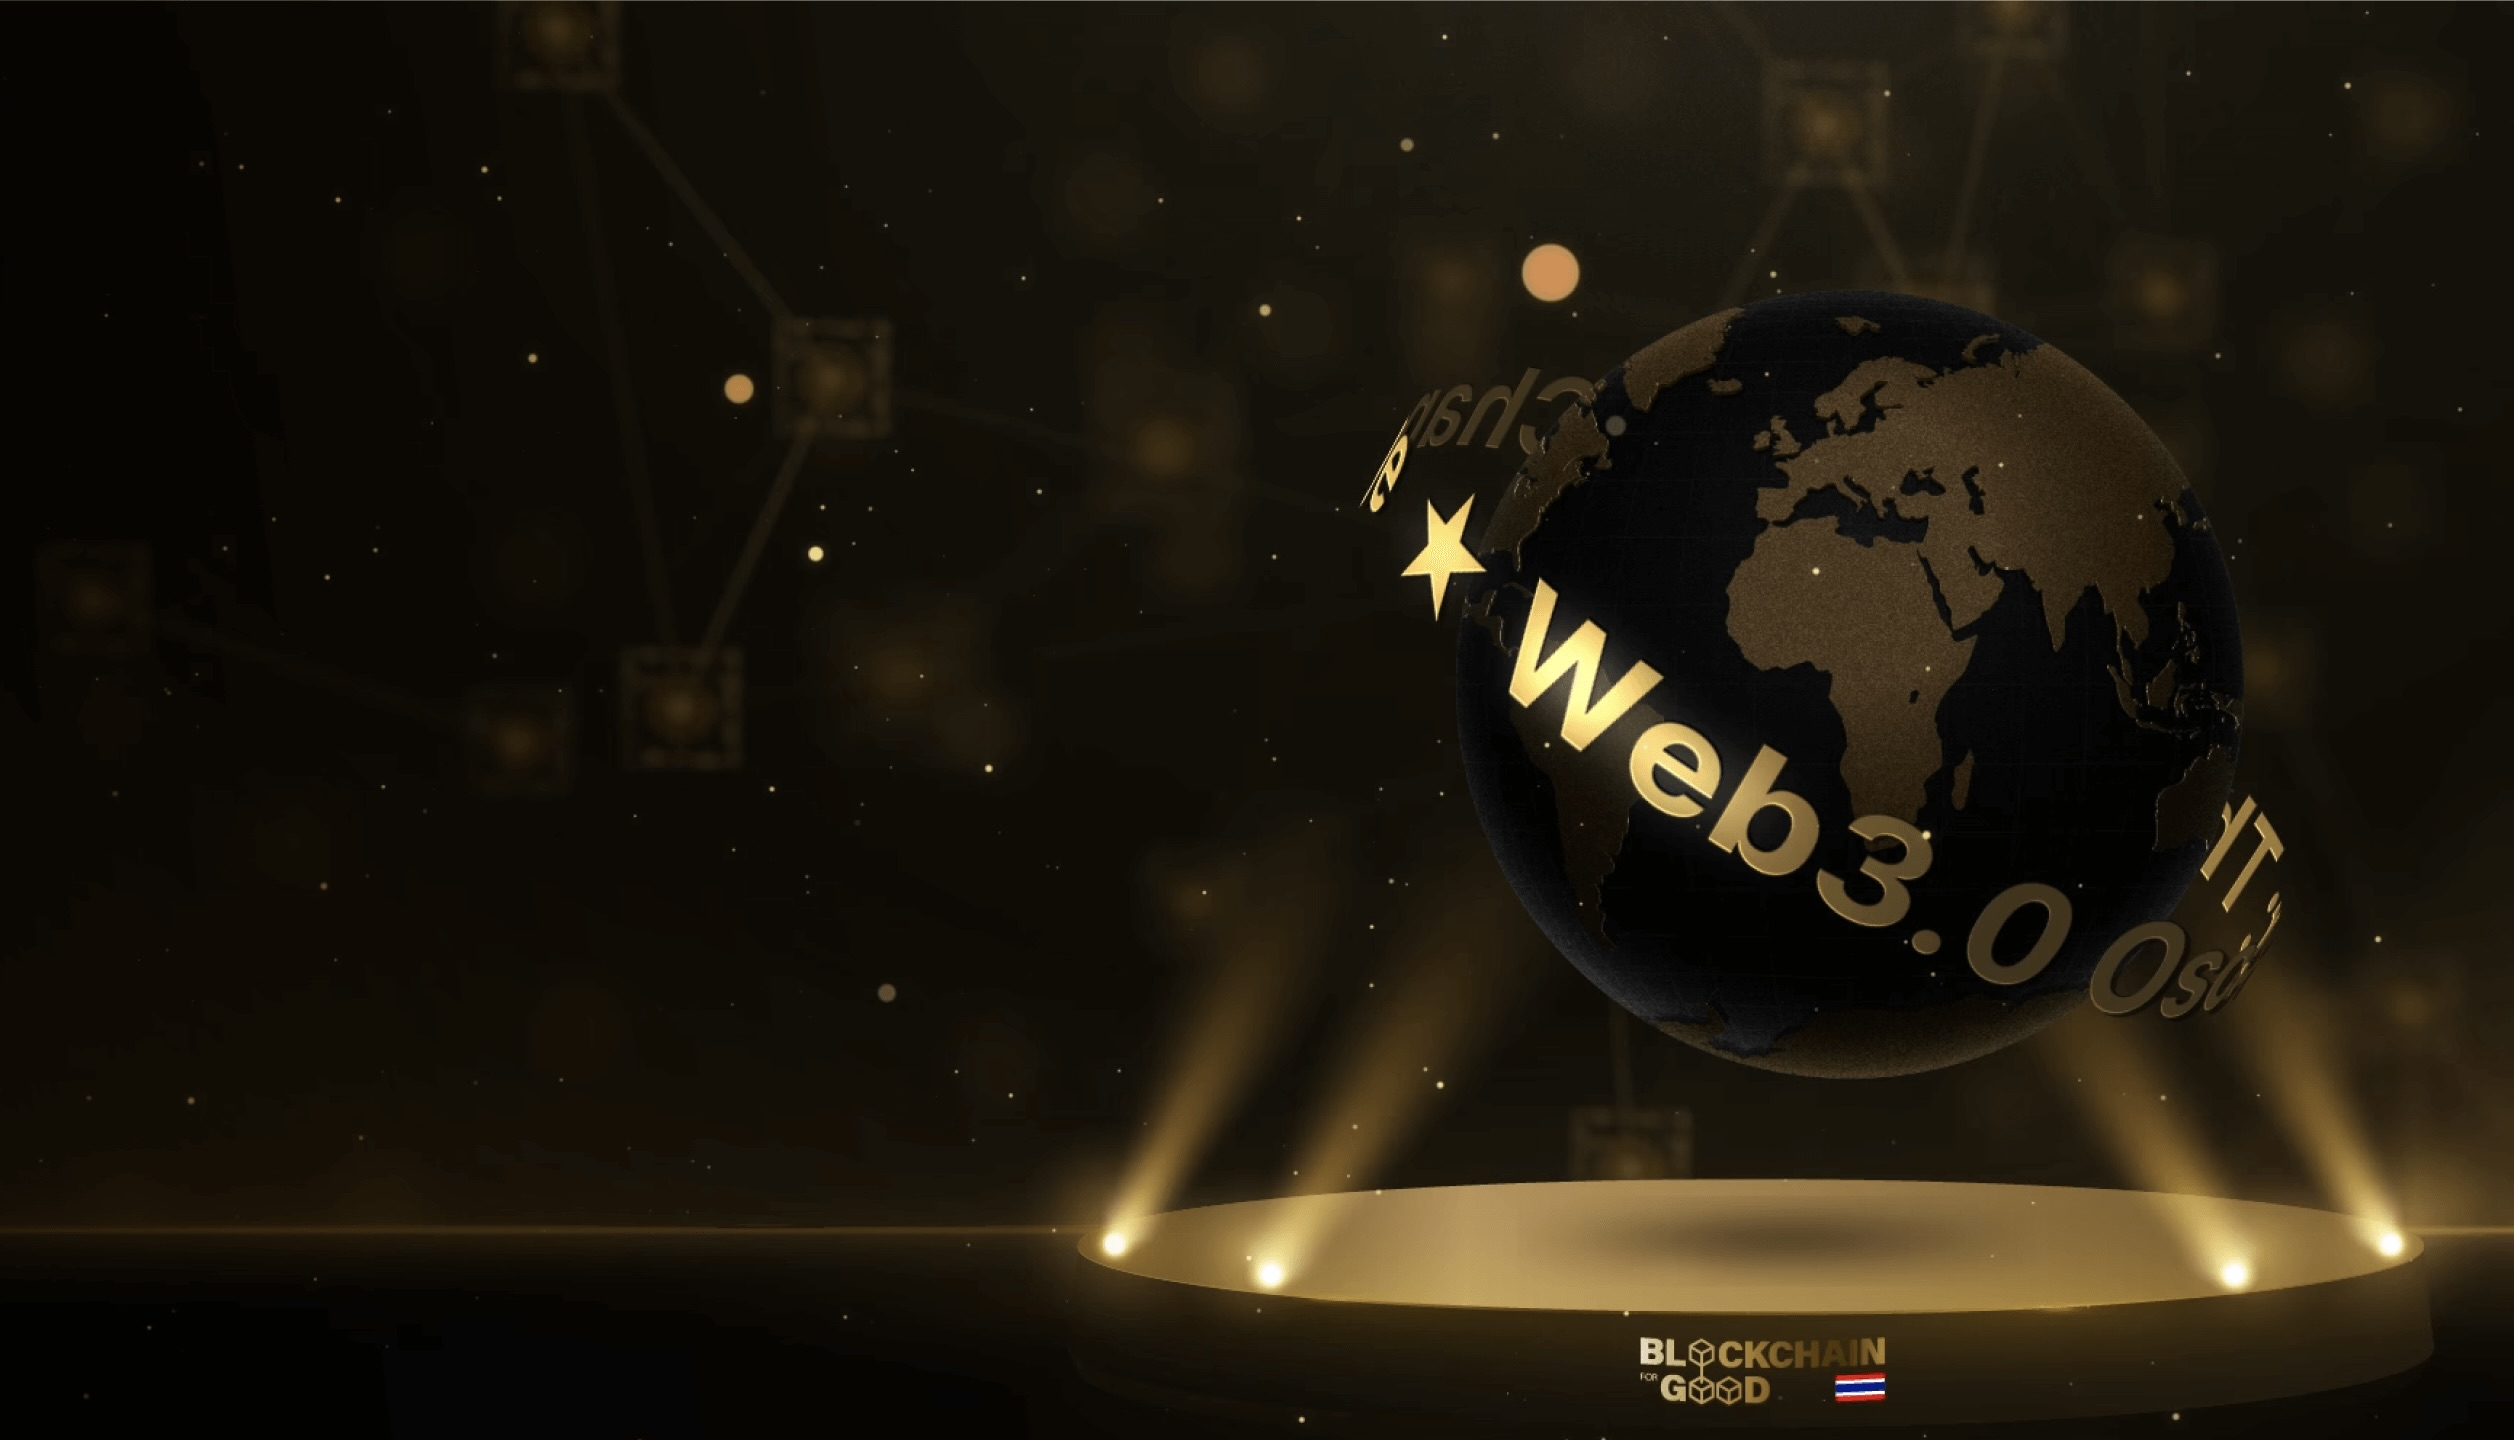
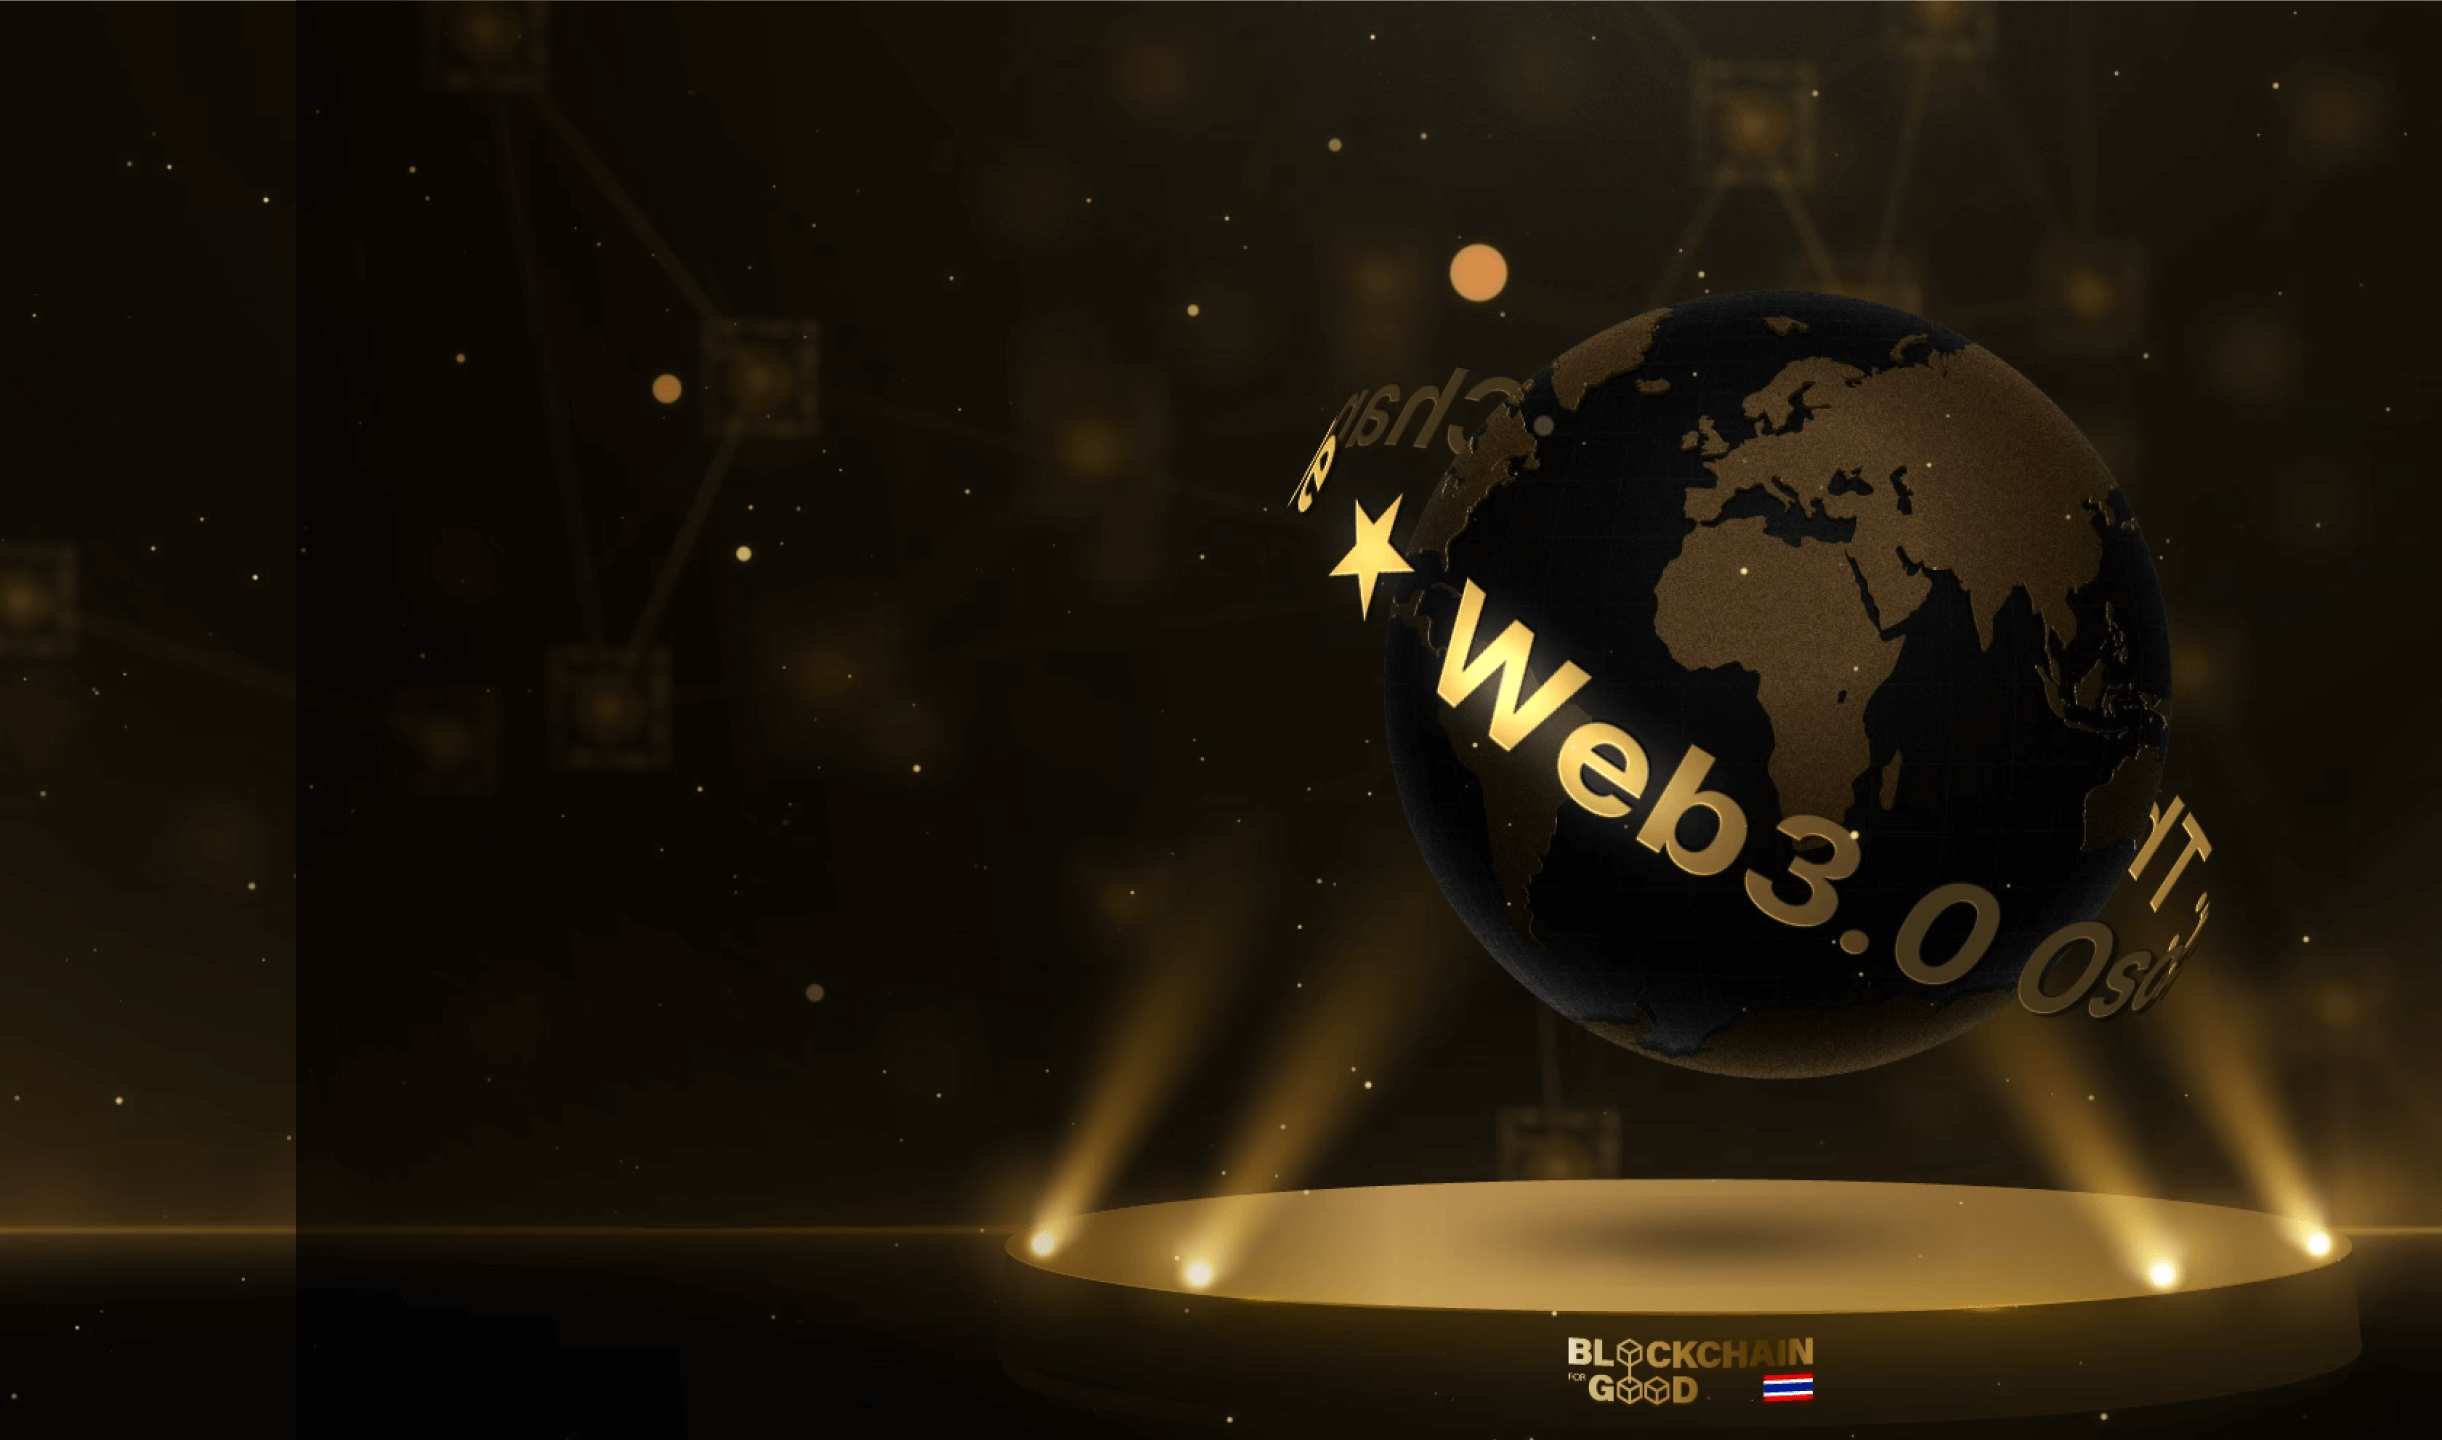
ceremony hero layout

diff --git a/app/oscar-ceremony/hero.tsx b/app/oscar-ceremony/hero.tsx
@@ -11,24 +11,20 @@ export function Hero() {
   const [isHover, setIsHover] = useState(false);
 
   const onHover = () => {
-    setTimeout(() => {
-      setIsHover(true);
-    }, 200);
+    setIsHover(true);
   };
 
   const onHoverOut = () => {
-    setTimeout(() => {
-      setIsHover(false);
-    }, 200);
+    setIsHover(false);
   };
   return (
     <div className="relative flex -mt-20 h-[40vw]">
       {/*left  */}
       <div
         className={cn(
-          "flex w-[30%] flex-none relative z-10",
+          "flex flex-none relative z-10 transition-all duration-200",
           styles["hero-left"],
-          isHover && "w-[70%]"
+          isHover ? "w-[70%]" : "w-[30%]"
         )}
         onMouseEnter={onHover}
         onMouseLeave={onHoverOut}
@@ -51,9 +47,17 @@ export function Hero() {
         </div>
       </div>
       {/* right */}
-      <div className={cn("w-full -ml-32 relative", styles["hero-right"])}>
+      <div
+        className={cn(
+          "w-full -ml-32 relative transition-all duration-200",
+          styles["hero-right"]
+        )}
+      >
         <Image
-          className={cn("w-full h-full object-left-top object-cover")}
+          className={cn(
+            "w-full h-full object-cover",
+            isHover ? "object-left-top" : "object-right-bottom"
+          )}
           src={HeroRightFullImage}
           alt="Web3.0 Oscar"
         />
